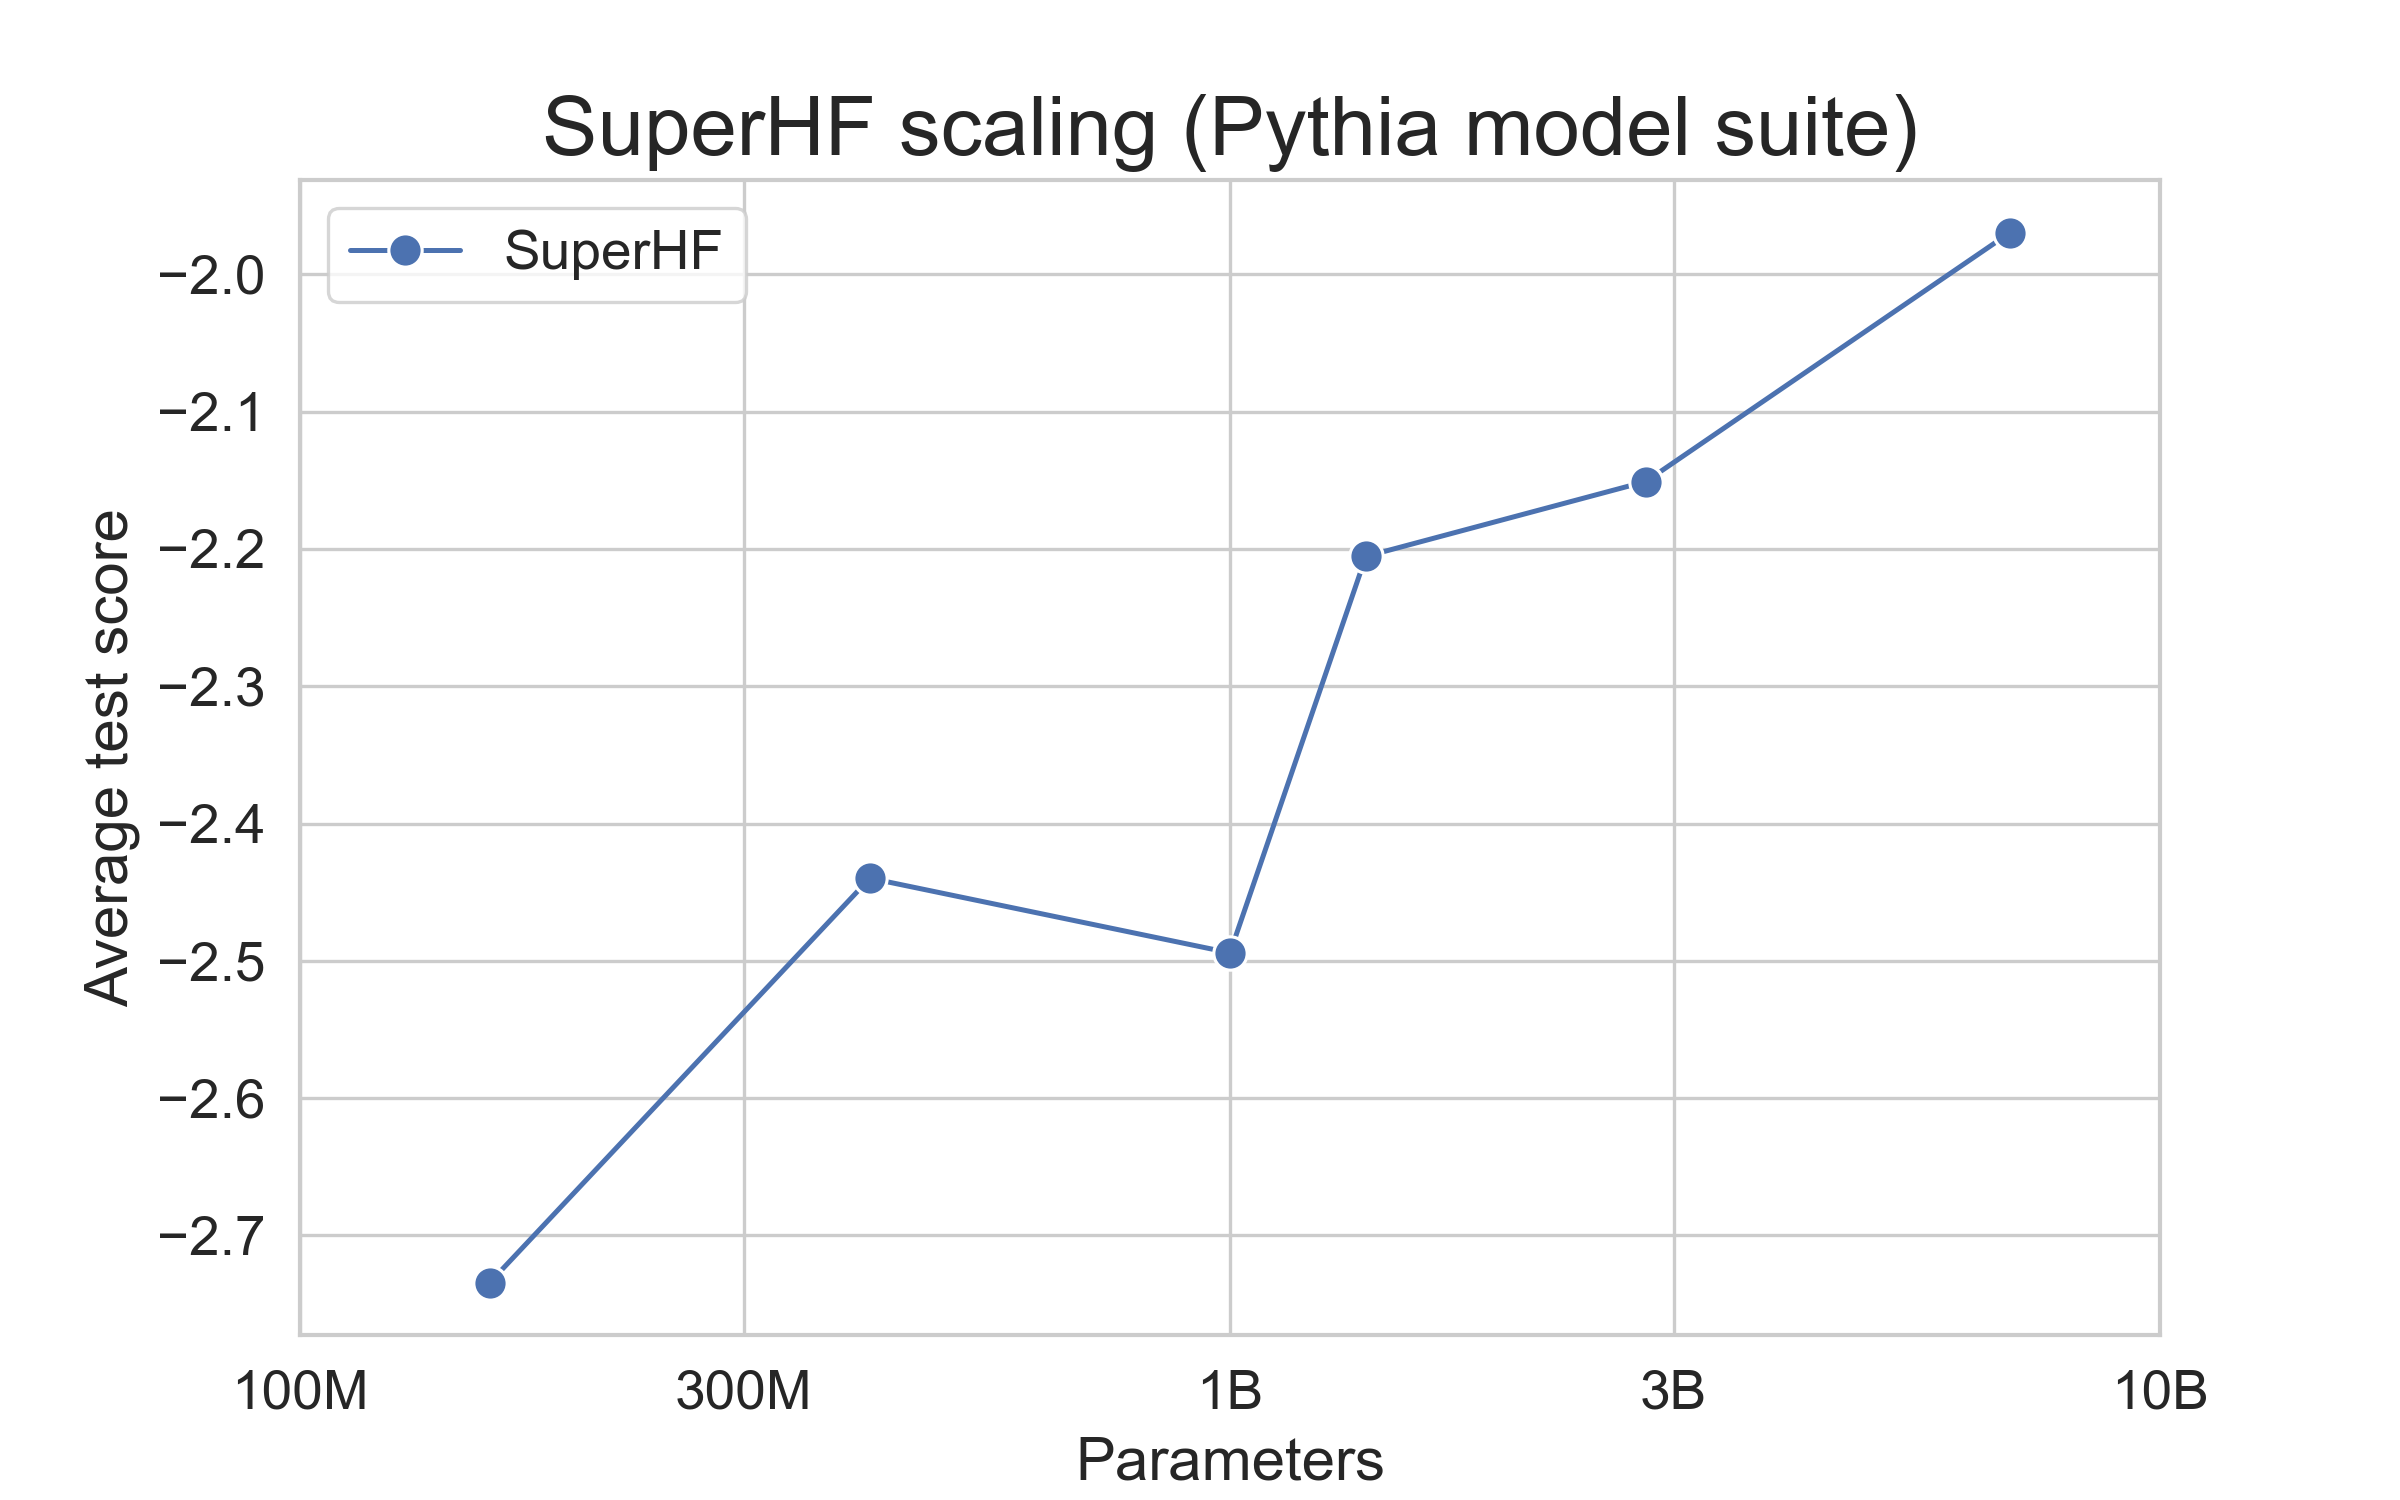
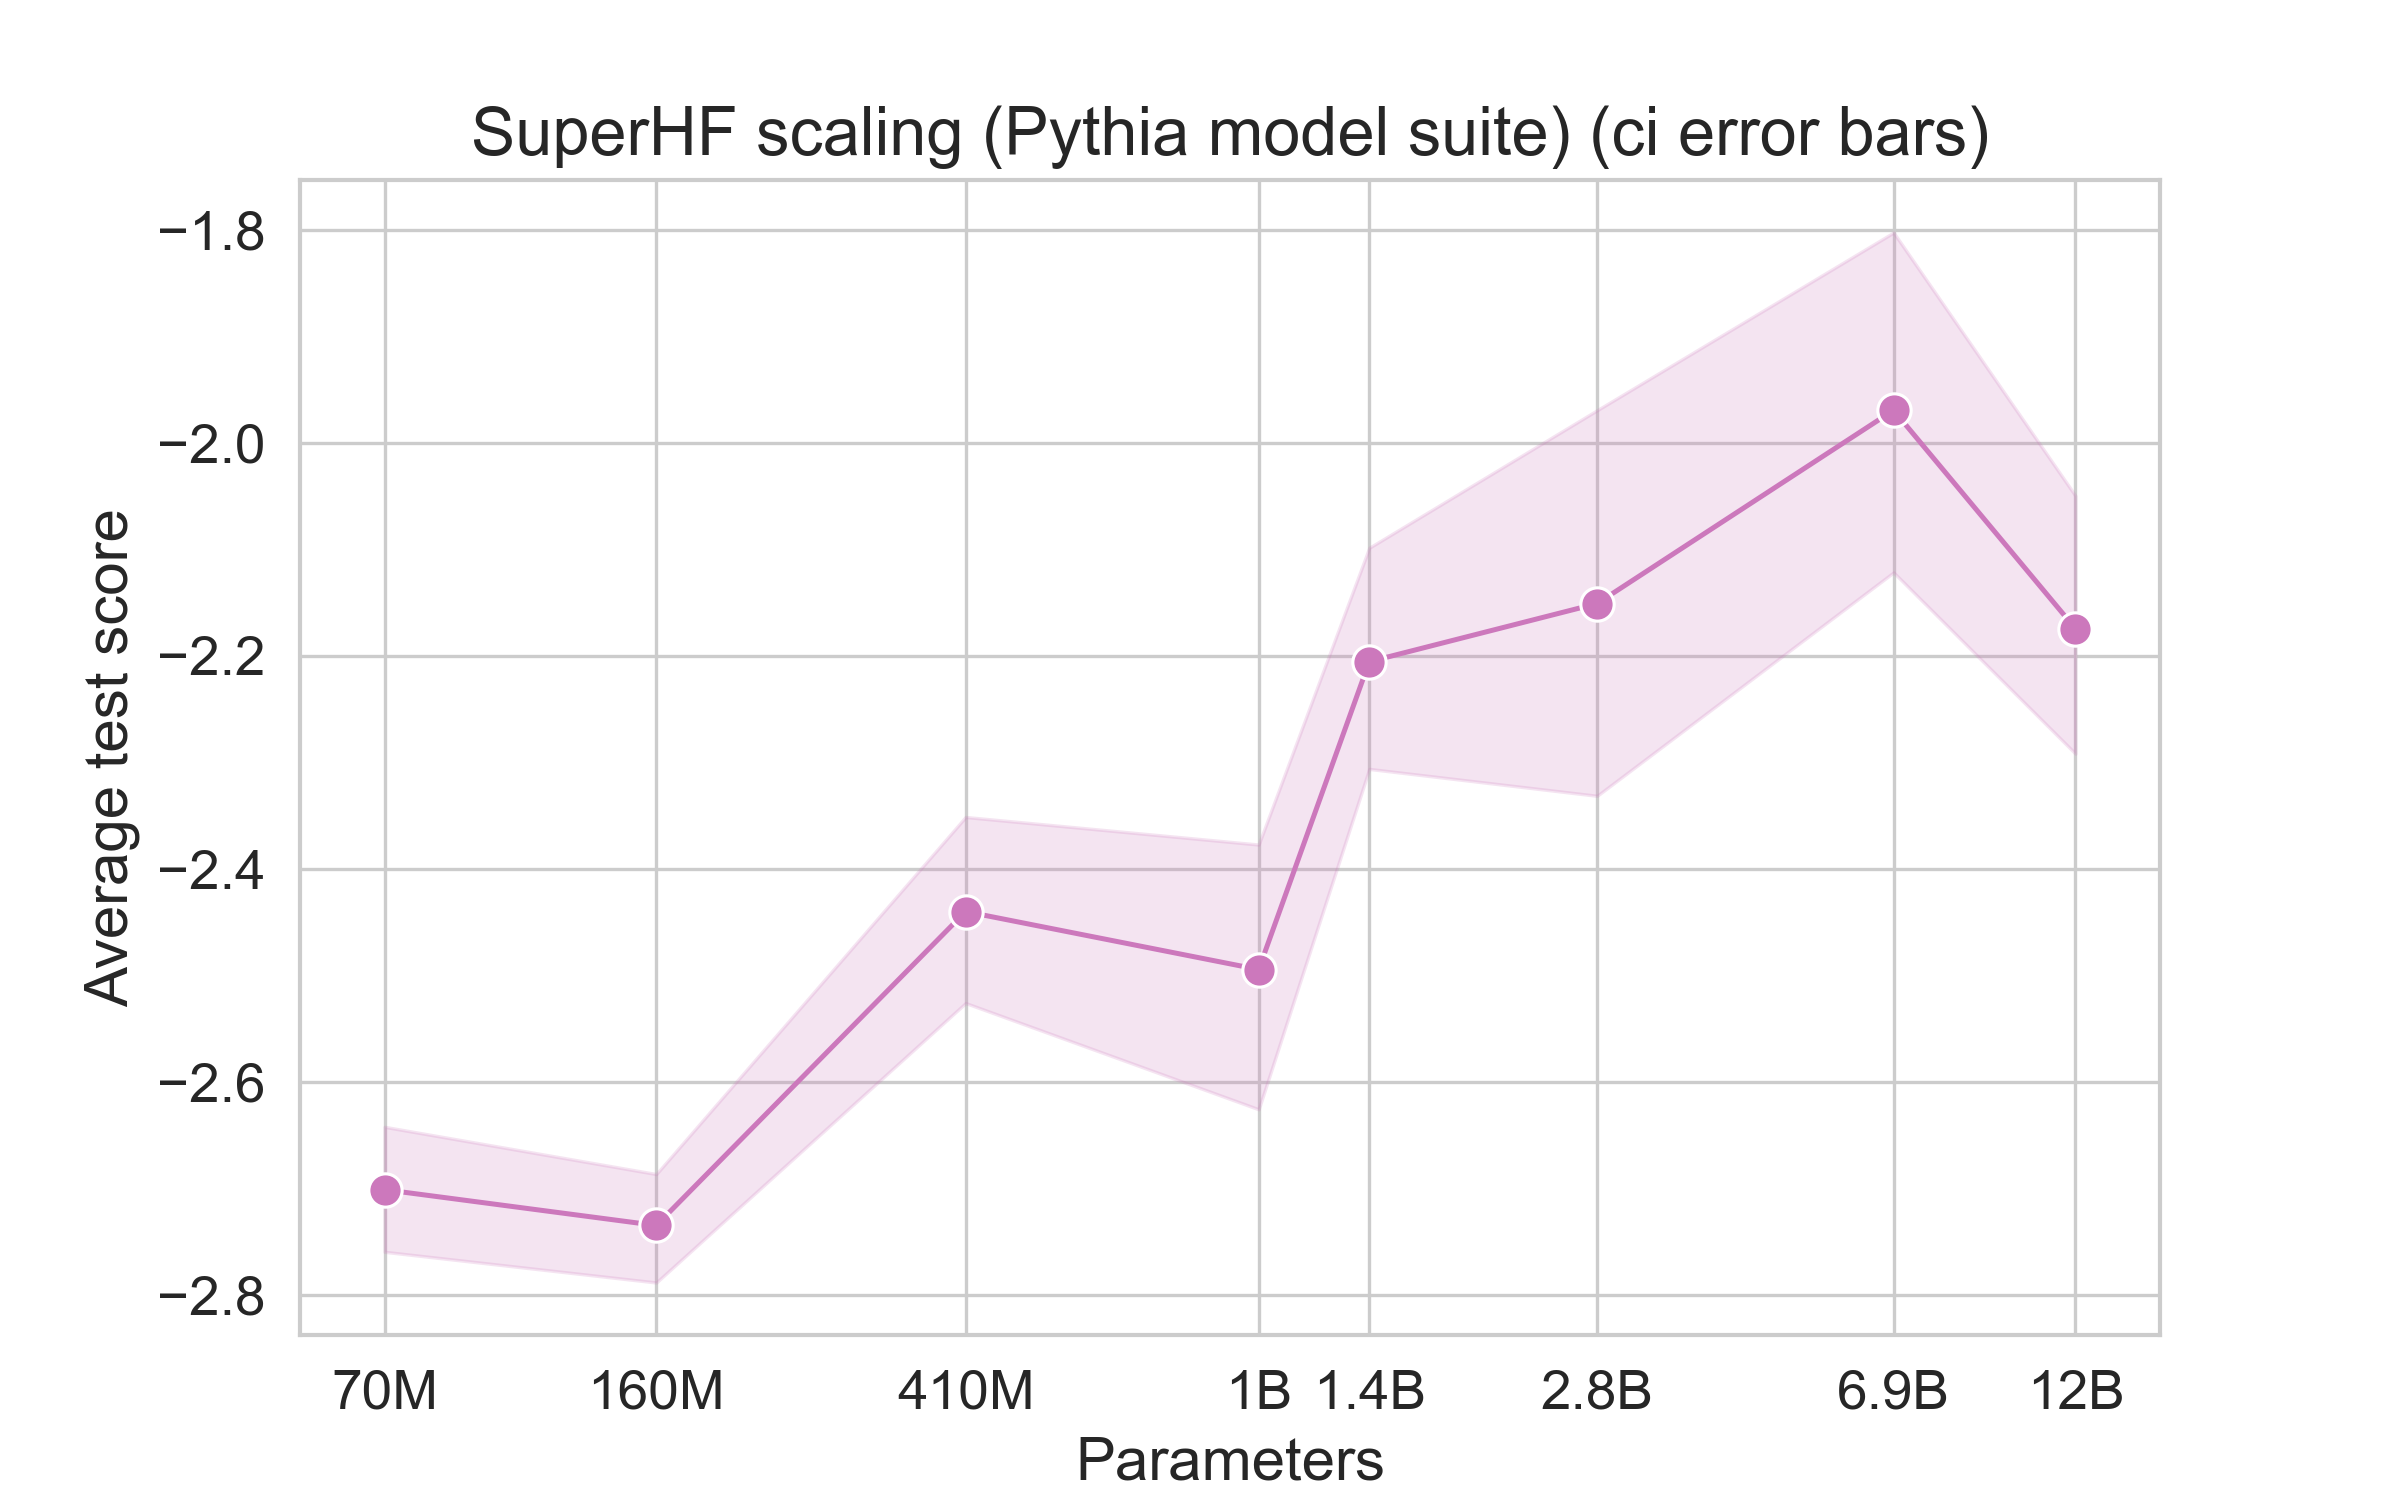
Improve graphs more

diff --git a/charts/model_size.py b/charts/model_size.py
@@ -2,16 +2,16 @@
 Plot scores as a function of model size.
 """
 
-import numpy as np
 import matplotlib.pyplot as plt
+import pandas as pd
 import seaborn as sns
 
 from chart_utils import (
-    # bootstrapped_stdev,
     create_file_dir_if_not_exists,
     flatten_2d_vector,
     load_json,
     set_plot_style,
+    model_type_to_palette_color,
 )
 from superhf.utils import set_seed
 
@@ -29,23 +29,20 @@ def main() -> None:
 
     # Define the model sizes and their corresponding file names
     file_names = [
-        # "shf-pythia-70m.json",
+        "shf-pythia-70m.json",
         "shf-pythia-160m.json",
         "shf-pythia-410m.json",
         "shf-pythia-1b.json",
         "shf-pythia-1.4b.json",
         "shf-pythia-2.8b.json",
         "shf-pythia-6.9b.json",
+        "shf-pythia-12b.json",
     ]
-    parameters = [1.6e8, 4.1e8, 1e9, 1.4e9, 2.8e9, 6.9e9]
-
-    # Initialize lists to hold the data
-    mean_scores = []
-    all_scores = []
-    # stdevs = []
+    parameters = [7e7, 1.6e8, 4.1e8, 1e9, 1.4e9, 2.8e9, 6.9e9, 1.2e10]
 
     # Calculate plot values for data
-    for file_name in file_names:
+    all_data = []
+    for parameter, file_name in zip(parameters, file_names):
         file_path = f"./experiments/evaluations/test_scores/{file_name}"
         file_data = load_json(file_path)
         scores = (
@@ -57,52 +54,37 @@ def main() -> None:
         # Unwrap scores from 2D array
         scores = flatten_2d_vector(scores)
 
-        # Calculate the mean score
-        mean_score = np.average(scores)
-
-        # Calculate the standard deviation of the scores
-        # stdev = bootstrapped_stdev(scores)
-
         # Add the data
-        all_scores.append(scores)
-        mean_scores.append(mean_score)
-        # stdevs.append(stdev)
+        for score in scores:
+            all_data.append([parameter, score])
 
-    # Convert data types
-    # data["model_size"] = data["model_size"].astype(int)
-    # data["score"] = data["score"].astype(float)
-
-    # Initialize arrays to hold the mean scores and the confidence intervals
-    # mean_scores = []
-    # confidence_intervals = []
-
-    # # For each model size, calculate the mean score and the 95% confidence interval
-    # for model_size in model_sizes:
-    #     scores = data[data["model_size"] == model_size]["score"]
-    #     mean_score = scores.mean()
-    #     confidence_interval = sem(scores) * t.ppf((1 + 0.95) / 2.0, scores.count() - 1)
-    #     mean_scores.append(mean_score)
-    #     confidence_intervals.append(confidence_interval)
+    dataframe = pd.DataFrame(all_data, columns=["Parameter", "Score"])
 
     # Create the plot
-    sns.lineplot(x=parameters, y=mean_scores, label="SuperHF")
+    errorbar = "ci"
+    sns.lineplot(
+        data=dataframe,
+        x="Parameter",
+        y="Score",
+        errorbar=errorbar,
+        color=model_type_to_palette_color("superhf"),
+    )
+    # sns.lineplot(x=parameters, y=mean_scores, label="SuperHF")
 
     # Set x-axis to log
     plt.xscale("log")
 
     # More x-ticks
-    plt.xticks(
-        [1e8, 3e8, 1e9, 3e9, 1e10],
-        ["100M", "300M", "1B", "3B", "10B"],
-    )
+    # plt.xticks(
+    #     [1e8, 3e8, 1e9, 3e9, 1e10],
+    #     ["100M", "300M", "1B", "3B", "10B"],
+    # )
+    plt.xticks(parameters, ["70M", "160M", "410M", "1B", "1.4B", "2.8B", "6.9B", "12B"])
 
     # Set labels and title
     plt.xlabel("Parameters")
-    plt.ylabel("Average test score")
+    plt.ylabel("Test score")
     plt.title("SuperHF scaling (Pythia model suite)")
-
-    # Display grid
-    plt.grid(True)
 
     # Save the plot
     create_file_dir_if_not_exists(OUTPUT_FILE)

diff --git a/charts/chart_utils.py b/charts/chart_utils.py
@@ -10,6 +10,8 @@ import numpy as np
 import matplotlib.pyplot as plt
 import seaborn as sns
 
+DEFAULT_COLOR_PALETTE = "colorblind"
+
 
 def bootstrapped_stdev(data: list[Any], num_samples: int = 1000) -> Any:
     """
@@ -62,10 +64,32 @@ def set_plot_style() -> None:
     # Figure size
     plt.rcParams["figure.figsize"] = (8, 5)
     # Make title larger
-    plt.rcParams["axes.titlesize"] = 20
+    plt.rcParams["axes.titlesize"] = 16
     # Higher DPI
     plt.rcParams["figure.dpi"] = 300
     # Default marker
     plt.rcParams["lines.marker"] = "o"
     # Default marker size
     plt.rcParams["lines.markersize"] = 8
+    # Accessible colors
+    sns.set_palette(DEFAULT_COLOR_PALETTE)
+
+
+def _get_color_from_palette(index: int) -> Any:
+    """Get a color from the default palette."""
+    palette = sns.color_palette(DEFAULT_COLOR_PALETTE)
+    color = palette[index]
+    return color
+
+
+def model_type_to_palette_color(model_type: str) -> Any:
+    """Standardize our use of models types to palette colors."""
+    all_model_types = [
+        "pretrained",
+        "instruct",
+        "sft_preferences",
+        "rlhf",
+        "superhf",
+    ]
+    assert model_type in all_model_types
+    return _get_color_from_palette(all_model_types.index(model_type))
